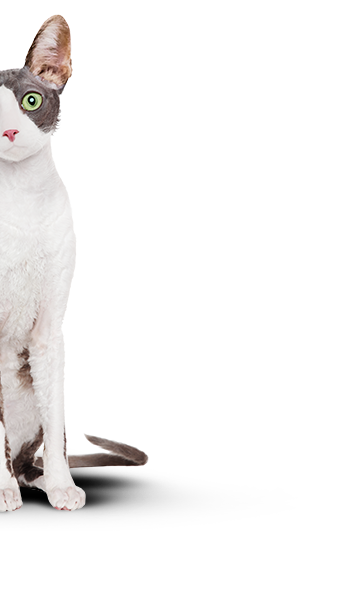
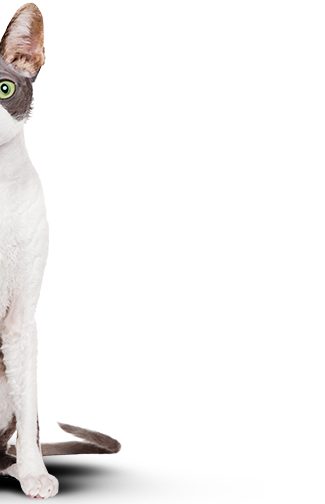
Работа с иллюстрациями в блоках example и contacts/ Не закончена

Changed region(s): [[0.0, 0.3869, 0.4615, 1.0], [0.0, 0.0, 0.2154, 0.3571]]

diff --git a/source/index.html b/source/index.html
@@ -118,10 +118,14 @@
         </div>
         <div class="example__image-wrapper">
           <picture>
-            <source media="(min-width: 768px)" srcset="../img/before-desktop.png 1x, ../img/before-desktop@2x.png 2x">
+            <source media="(min-width: 1440px)" srcset="../img/before-desktop.png 1x, ../img/before-desktop@2x.png 2x">
+            <source media="(min-width: 768px)" srcset="../img/before-tablet.png 1x, ../img/before-tablet@2x.png 2x">
             <img class="example__image example__image--before" src="../img/before-mobile.png" srcset="../img/before-mobile@2x.png 2x" width="311" height="232" alt="Толстенький кот Борис">
           </picture>
-          <img class="example__image example__image--after" src="../img/after-desktop.png" srcset="../img/after-desktop@2x.png 2x" width="354" height="607">
+          <picture>
+            <source media="(min-width: 1440px)" srcset="../img/after-desktop.png 1x, ../img/after-desktop@2x.png 2x">
+            <img class="example__image example__image--after" src="../img/after-tablet.png" srcset="../img/after-tablet@2x.png 2x" width="354" height="607">
+          </picture>
         </div>
         <div class="example__slider slider">
           <span class="slider__description">Было</span>
@@ -136,7 +140,11 @@
       <h2 class="visually-hidden">Контакты</h2>
       <h3 class="contacts__title">Приглашаем к сотрудничеству дилеров!</h3>
       <address class="contacts__address">ул. Большая Конюшенная, д. 19/8 Санкт-Петербург</address>
-      <img class="contacts__map" src="https://via.placeholder.com/320x362" width="320" height="362" alt="Наше местоположение на карте">
+      <picture>
+        <source media="(min-width: 1440px)" srcset="../img/map-desktop.png 1x, ../img/map-desktop@2x.png 2x">
+        <source media="(min-width: 768px)" srcset="../img/map-tablet.png 1x, ../img/map-tablet@2x.png 2x">
+        <img class="contacts__map" src="../img/map-mobile.png" srcset="../img/map-mobile@2x.png 2x" width="320" height="362" alt="Наше местоположение на карте">
+      </picture>
     </div>
     <div class="footer-bottom">
       <div class="footer-bottom__logo"></div>

diff --git a/source/less/contacts.less b/source/less/contacts.less
@@ -4,8 +4,6 @@
   display: grid;
   grid-template-rows: min-content 1fr;
   grid-template-columns: 160px 160px;
-  // margin-left: 20px;
-  // margin-right: 20px;
 
   &__title {
     grid-column-start: 1;
@@ -44,26 +42,34 @@
 
 @media (min-width: @tablet-width) {
   .contacts {
-    .tablet-max-width();
-    margin: 0 auto;
+    max-width: 768px;
+    // margin: 0 auto;
     display: grid;
-    grid-template-rows: min-content 1fr;
+    grid-template-rows: 201px 1fr;
     grid-template-columns: repeat(2, calc(708px / 2));
 
     &__title {
+      grid-area: 1 / 1 / 2 / 2;
       width: 171px;
+      margin: 0;
+      margin-left: 71px;
+      align-self: center;
     }
 
     &__address {
+      grid-area: 1 / 2 / 2 / 3;
       justify-self: end;
+      align-self: center;
       margin: 0;
       width: 160px;
       text-align: right;
     }
 
-    // &__map {
-    //   grid-row: 1 / 3;
-    // }
+    &__map {
+      grid-area: 2 / 1 / 3 / 3;
+      width: 768px;
+      height: 400px;
+    }
   }
 }
 
@@ -74,9 +80,17 @@
     justify-content: space-around;
     width: 570px;
     padding: 63px 89px 52px 76px;
+    position: relative;
+    min-height: 400px;
+    background-color: #ffffff;
 
     &__map {
-      display: none;
+      position: absolute;
+      width: 1440px;
+      height: 400px;
+      top: 75px;
+      left: 0;
+      z-index: -1;
     }
 
     &__title {

diff --git a/source/less/example.less b/source/less/example.less
@@ -185,26 +185,28 @@
       margin-top: 69px;
       border: none;
       display: grid;
-      grid-template-areas: "title img" "wrap im" "wrap slider";
+      grid-template-areas: "title img" "desc img" "wrapper img" ". slider";
+      height: 590px;
     }
 
     &__title {
       grid-area: title;
+      margin: 0;
     }
 
     &__description {
       grid-area: desc;
       width: 436px;
       margin: 0;
-      margin-bottom: 84px;
     }
 
     &__wrapper {
-      grid-area: wrap;
+      grid-area: wrapper;
       display: flex;
       flex-direction: column;
       justify-content: space-between;
       align-items: flex-start;
+      align-self: start;
     }
 
     &__stats-item {
@@ -214,10 +216,26 @@
     &__cash {
       width: 325px;
       text-align: center;
+      margin: 0;
     }
 
-    &__image {
+    &__image-wrapper {
       grid-area: img;
+      align-self: end;
+    }
+
+    &__image-wrapper::before {
+      display: none;
+    }
+
+    &__image--before {
+      width: 365px;
+      height: 536px;
+    }
+
+    &__image--after {
+      width: 325px;
+      height: 510px;
     }
 
     &__slider {

diff --git a/source/less/promo.less b/source/less/promo.less
@@ -39,11 +39,11 @@
 
 @media (min-width: @tablet-width) {
   .promo {
+    .tablet-max-width();
     display: flex;
     flex-direction: column;
     align-items: flex-start;
     background: none;
-    .tablet-max-width();
     position: relative;
 
     &__name {
@@ -96,7 +96,6 @@
     position: relative;
 
     &::after {
-      // display: none;
       content: "";
       position: absolute;
       width: 720px;
@@ -106,7 +105,7 @@
       background-repeat: no-repeat;
       background-blend-mode: soft-light;
       top: -128px;
-      right: -110px;
+      right: -175px;
       z-index: -1;
     }
 
@@ -123,6 +122,7 @@
 
     &__slogan {
       // grid-area: slogan;
+      width: 283px;
       grid-column-start: 1;
       grid-column-end: 3;
       grid-row-start: 2;
@@ -149,6 +149,7 @@
       position: static;
       margin-top: 52px;
       margin-bottom: 267px;
+      margin-left: 80px;
     }
   }
 }

diff --git a/source/less/common.less b/source/less/common.less
@@ -23,20 +23,3 @@
   }
 }
 
-@media (min-width: @tablet-width) {
-  .page {
-    &__body {
-      padding-left: 30px;
-      padding-right: 30px;
-    }
-  }
-}
-
-@media (min-width: @desktop-width) {
-  .page {
-    &__body {
-      padding-left: 110px;
-      padding-right: 110px;
-    }
-  }
-}
